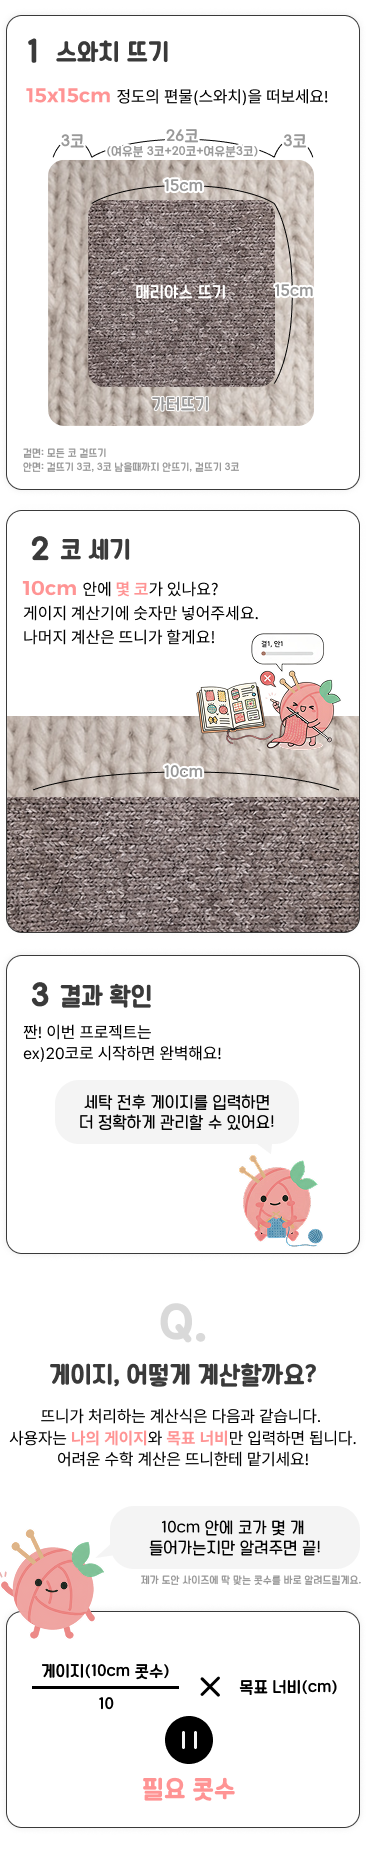
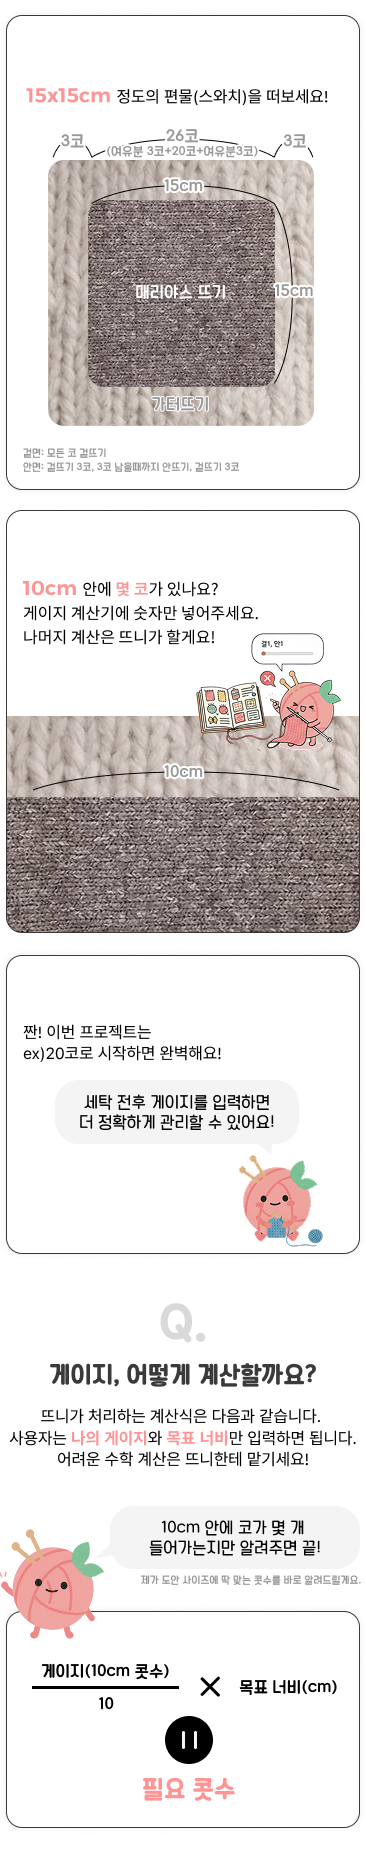
도움말 숫자와 제목을 세로 가운데로 맞춘다.

diff --git a/app/src/screens/tools.tsx b/app/src/screens/tools.tsx
@@ -43,11 +43,31 @@ export function GaugeHelpScreen() {
           뜨개 내비
         </button>
       </div>
-      {tab === "tutorial" ? (
-        <img src="/media/gauge-help-tutorial.png" alt="스와치를 뜨고 10cm 안의 코를 세면 필요한 코수를 계산할 수 있어요." className="mt-6 w-full" />
-      ) : (
-        <NaviHelp />
-      )}
+      {tab === "tutorial" ? <GaugeTutorial /> : <NaviHelp />}
+    </div>
+  );
+}
+
+const HELP_HEADINGS = [
+  { n: "1", title: "스와치 뜨기", top: "2.7%" },
+  { n: "2", title: "코 세기", top: "29.59%" },
+  { n: "3", title: "결과 확인", top: "53.67%" },
+];
+
+function GaugeTutorial() {
+  return (
+    <div className="relative mt-6 [container-type:inline-size]">
+      <img src="/media/gauge-help-tutorial.png" alt="스와치 예시와 10cm 코 세기, 필요한 코수 계산식" className="w-full" />
+      {HELP_HEADINGS.map((heading) => (
+        <h2
+          key={heading.n}
+          className="absolute flex items-center gap-[1.6cqw] text-[#3a3a3a]"
+          style={{ top: heading.top, left: "8%", transform: "translateY(-50%)" }}
+        >
+          <span className="text-[6.2cqw] font-black leading-none">{heading.n}</span>
+          <span className="text-[4.8cqw] font-bold leading-none">{heading.title}</span>
+        </h2>
+      ))}
     </div>
   );
 }
@@ -62,7 +82,10 @@ function NaviHelp() {
     <div className="mt-6 space-y-5">
       {steps.map((step) => (
         <section key={step.n}>
-          <h2 className="flex items-baseline gap-2 text-[18px] font-bold"><span className="text-[32px] font-black leading-none text-blush">{step.n}</span> {step.title}</h2>
+          <h2 className="flex items-center gap-2">
+            <span className="text-[32px] font-black leading-none text-blush">{step.n}</span>
+            <span className="text-[18px] font-bold leading-none">{step.title}</span>
+          </h2>
           <p className="mt-1 text-[14px] leading-relaxed text-[#555]">{step.body}</p>
         </section>
       ))}
